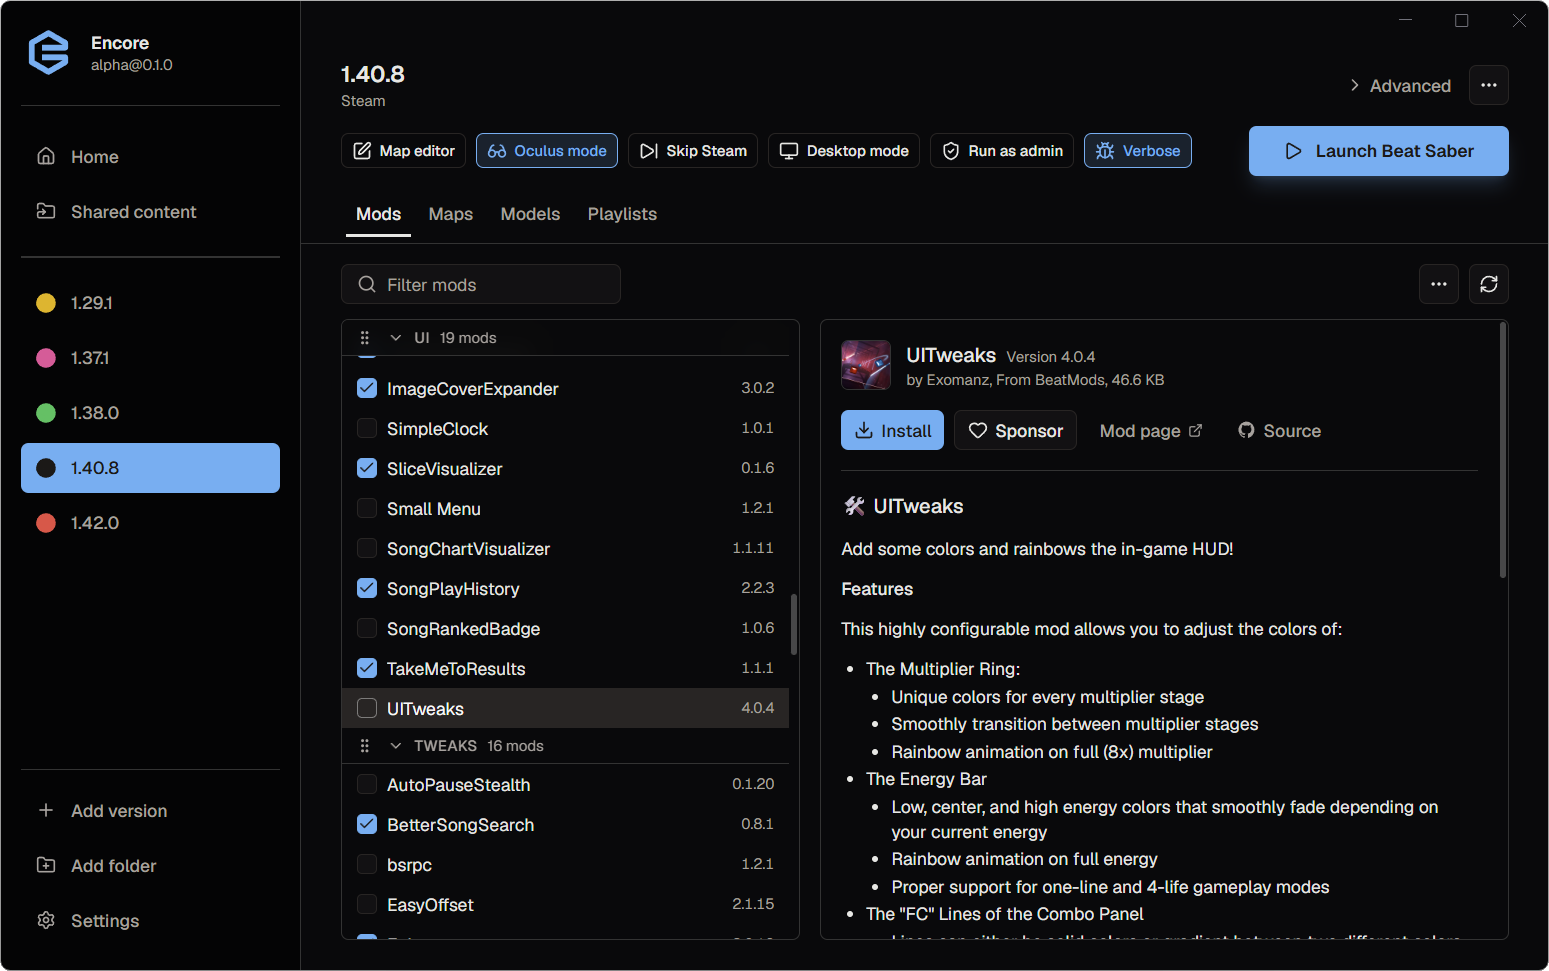
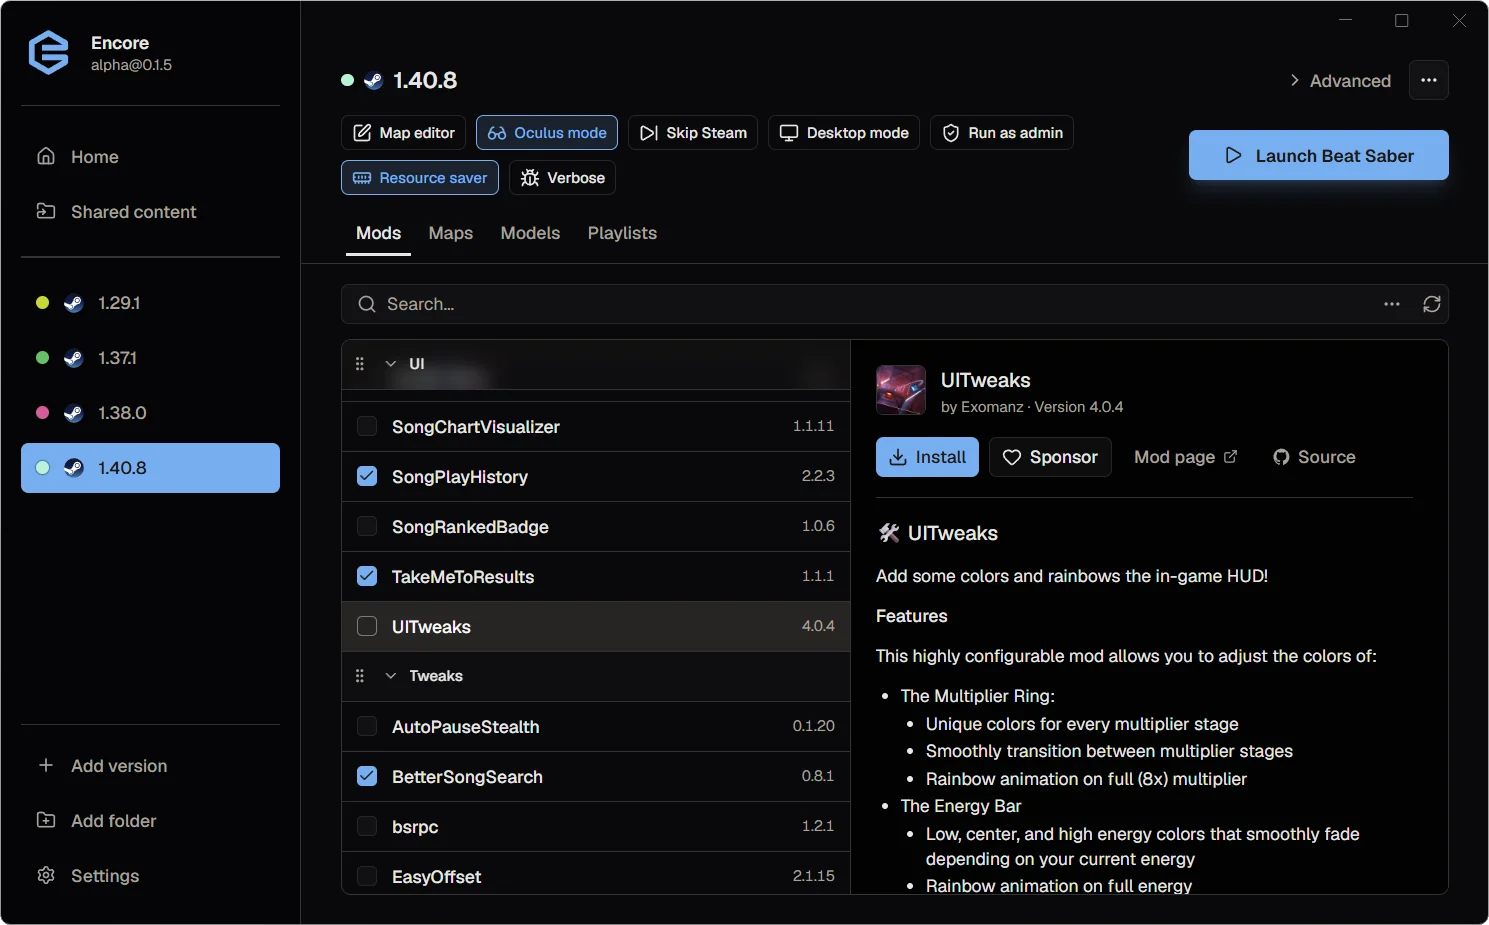
web/home: refresh responsive hero

diff --git a/web/src/app/page.tsx b/web/src/app/page.tsx
@@ -9,10 +9,10 @@ export default function Home() {
       <BeatSaberBackground />
 
       <section
-        className="@container w-full max-w-[1280px] min-[877px]:w-[min(74.32vw,123.34svh)]! min-[877px]:max-w-none! min-[877px]:[--spacing:0.3125cqw]"
+        className="@container w-full max-w-[1280px] min-[877px]:w-[min(74.32vw,124.45svh)]! min-[877px]:max-w-none! min-[877px]:[--spacing:max(0.25rem,0.3125cqw)]"
         aria-labelledby="hero-title"
       >
-        <div className="flex w-full translate-y-1.5 items-end justify-between pr-4 pl-[clamp(20px,1.875vw,30px)] max-[876px]:flex-col max-[876px]:items-center max-[876px]:px-0 min-[877px]:pl-7.5">
+        <div className="flex w-full translate-y-1.5 items-end justify-between pr-4 pl-[clamp(20px,1.875vw,30px)] max-[1100px]:flex-col max-[1100px]:items-center max-[1100px]:px-0 min-[877px]:pl-7.5">
           <div className="relative flex min-w-0 translate-y-1.5 items-center justify-start gap-[clamp(2px,0.35vw,6px)] max-[540px]:flex-col min-[877px]:gap-1.5">
             <img
               className="aspect-square h-auto w-[clamp(96px,9vw,128px)] -translate-y-1.75 shrink-0 shadow-none [filter:none] max-[540px]:w-[76px] min-[877px]:w-32"
@@ -48,9 +48,11 @@ export default function Home() {
             </div>
           </div>
 
-          <div className="flex items-end text-[0.82rem] max-[876px]:mt-5 max-[876px]:items-center min-[877px]:text-[calc(var(--spacing)*3.28)]">
+          <div className="flex items-end text-[0.82rem] max-[1100px]:mt-5 max-[1100px]:items-center min-[877px]:text-[calc(var(--spacing)*3.28)]">
             <div className="flex flex-wrap justify-center gap-2.5">
-              <DownloadButton />
+              <div className="max-[876px]:hidden">
+                <DownloadButton />
+              </div>
               <div className="flex items-center gap-2.5">
                 <a
                   className="inline-flex min-h-8 items-center justify-center gap-2.25 rounded-[calc(var(--spacing)*1.75)] border border-white bg-white px-3.25 font-semibold text-[#09090b] no-underline"
@@ -75,12 +77,12 @@ export default function Home() {
           </div>
         </div>
 
-        <div className="relative mt-[clamp(16px,1.5vw,24px)] translate-y-6 scale-[1.015] max-[876px]:hidden min-[877px]:mt-6">
+        <div className="relative mt-[clamp(16px,1.5vw,24px)] translate-y-[clamp(calc(var(--spacing)*6),calc(var(--spacing)*6_+_1rem+(166.667svh_-_100vw)/4),calc(6.8svh_+_2rem))] scale-[1.015] max-[876px]:hidden min-[877px]:mt-6">
           <img
             className="block h-auto w-full [box-shadow:0_28px_64px_-28px_rgba(0,0,0,0.75)]"
             src={encoreApp.src}
-            width={1549}
-            height={971}
+            width={1489}
+            height={925}
             alt="Encore desktop app"
             fetchPriority="high"
           />
